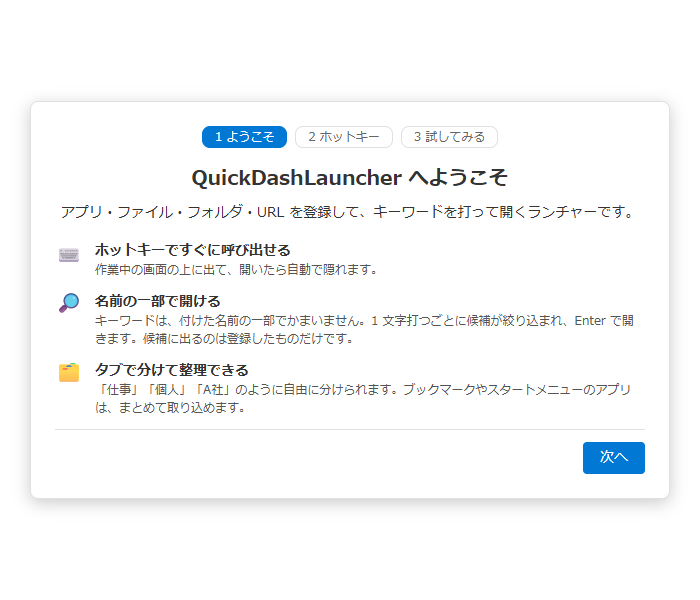
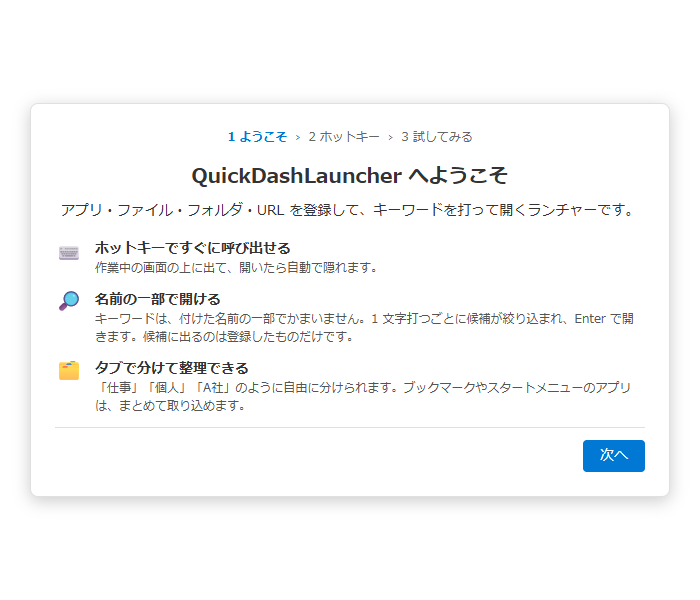
fix: 初回設定のステップ表示をボタンに見えない形にする
枠と塗りをやめて文字だけにし、「›」でつなぐ。今のステップは青の太字、済んだステップは緑の ✓。

diff --git a/src/renderer/styles/components/SetupFirstLaunch.css b/src/renderer/styles/components/SetupFirstLaunch.css
@@ -22,32 +22,33 @@
   border: var(--border-light);
 }
 
-/* ステップの表示（1 ようこそ / 2 ホットキー / 3 試してみる） */
+/* ステップの表示（1 ようこそ › 2 ホットキー › 3 試してみる）。ボタンに見えないよう、枠・塗りは付けない */
 .first-launch-steps {
   display: flex;
   justify-content: center;
-  gap: var(--spacing-sm);
+  align-items: center;
   list-style: none;
   margin: 0 0 var(--spacing-lg) 0;
   padding: 0;
   font-size: var(--font-size-sm);
   color: var(--text-muted);
+  cursor: default;
+  user-select: none;
 }
 
-.first-launch-step {
-  padding: 1px var(--spacing-md);
-  border: var(--border-light);
-  border-radius: var(--border-radius-xl);
+.first-launch-step + .first-launch-step::before {
+  content: '›';
+  margin: 0 var(--spacing-sm);
+  color: var(--text-muted);
+  font-weight: normal;
 }
 
 .first-launch-step.current {
-  background: var(--color-primary);
-  border-color: var(--color-primary);
-  color: var(--color-white);
+  color: var(--color-primary);
+  font-weight: 600;
 }
 
 .first-launch-step.done {
-  border-color: var(--color-success);
   color: var(--color-success);
 }
 
